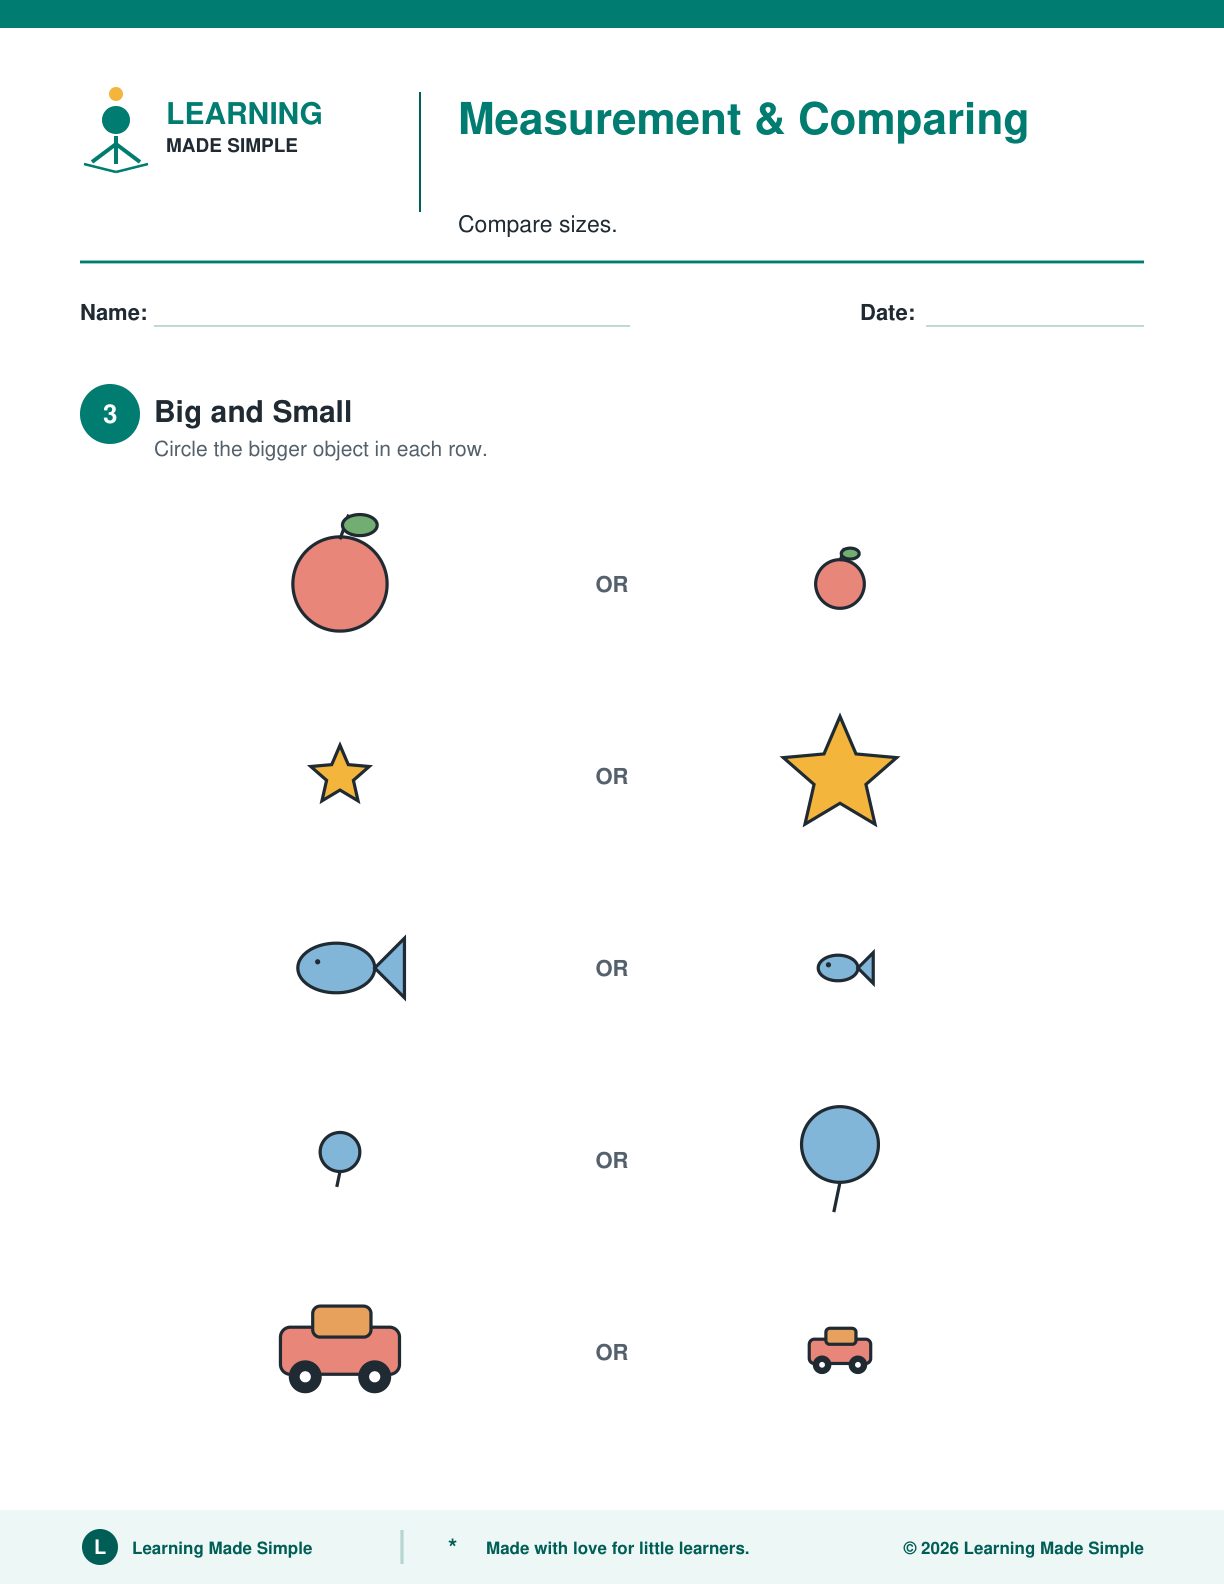
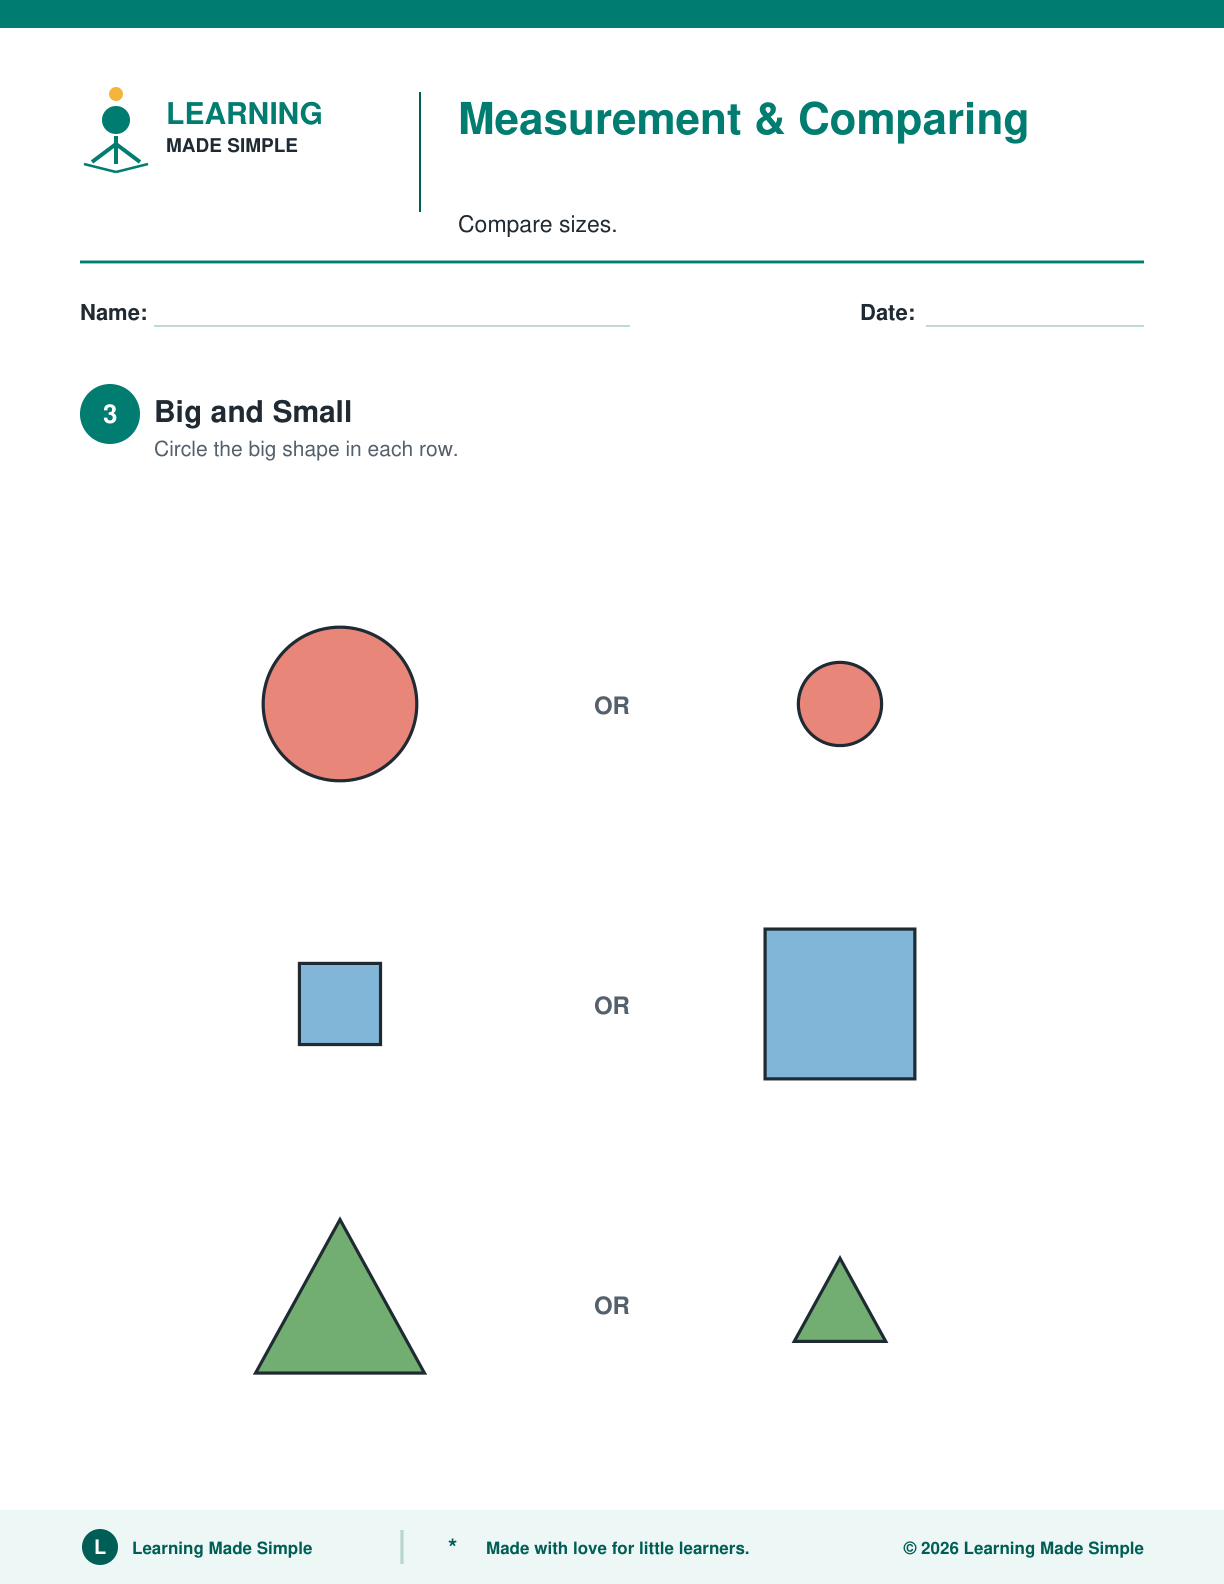
Rebuild Measurement sample: big clear objects, 3 rows per page, simple shapes

diff --git a/worksheet-generator/generate_worksheet.py b/worksheet-generator/generate_worksheet.py
@@ -2072,6 +2072,54 @@ def _require_object_kind(kind: str, context: str) -> str:
     return kind
 
 
+PATTERN_SHAPE_COLORS = {
+    "red": CORAL, "blue": BLUE, "yellow": GOLD, "green": GREEN, "purple": PURPLE,
+}
+PATTERN_SHAPES = ("circle", "square", "triangle")
+
+
+def draw_pattern_shape(pdf: canvas.Canvas, spec: dict, center_x: float,
+                       center_y: float, size: float) -> None:
+    """Draw one simple shape a preschooler can copy: circle, square, triangle."""
+    shape = spec.get("shape")
+    color = PATTERN_SHAPE_COLORS.get(spec.get("color"))
+    scale = spec.get("scale", 1.0)
+    if shape not in PATTERN_SHAPES or color is None:
+        raise ValueError(f"Bad pattern shape spec: {spec!r}.")
+    if not isinstance(scale, (int, float)) or not 0.2 <= scale <= 1.5:
+        raise ValueError(f"Bad pattern shape scale: {spec!r}.")
+    size = size * scale
+    pdf.setStrokeColor(INK)
+    pdf.setLineWidth(1.6)
+    pdf.setFillColor(color)
+    if shape == "circle":
+        pdf.circle(center_x, center_y, size * .40, fill=1, stroke=1)
+    elif shape == "square":
+        side = size * .78
+        pdf.rect(center_x - side / 2, center_y - side / 2, side, side,
+                 fill=1, stroke=1)
+    else:
+        path = pdf.beginPath()
+        path.moveTo(center_x, center_y + size * .44)
+        path.lineTo(center_x - size * .44, center_y - size * .36)
+        path.lineTo(center_x + size * .44, center_y - size * .36)
+        path.close()
+        pdf.drawPath(path, fill=1, stroke=1)
+
+
+def _validate_pattern_spec(value, context: str) -> None:
+    if isinstance(value, dict):
+        if value.get("shape") not in PATTERN_SHAPES:
+            raise ValueError(f"{context} uses unsupported shape: {value!r}.")
+        if value.get("color") not in PATTERN_SHAPE_COLORS:
+            raise ValueError(f"{context} uses unsupported color: {value!r}.")
+        scale = value.get("scale", 1.0)
+        if not isinstance(scale, (int, float)) or not 0.2 <= scale <= 1.5:
+            raise ValueError(f"{context} uses unsupported scale: {value!r}.")
+    else:
+        _require_object_kind(value, context)
+
+
 def draw_pattern_cells(pdf: canvas.Canvas, sequence: list, x: float, y: float,
                        box: float = 48.0, gap: float = 10.0) -> None:
     """Draw a row of pattern cells; None entries render as dashed blanks."""
@@ -2247,66 +2295,75 @@ def draw_cup(pdf: canvas.Canvas, center_x: float, y: float, width: float,
     pdf.drawPath(outline, fill=0, stroke=1)
 
 
+def _draw_measured_shape(pdf: canvas.Canvas, item: dict, center_x: float,
+                         center_y: float, size: float) -> None:
+    """Draw a big simple shape for the measurement pack."""
+    _validate_pattern_spec({"shape": item["shape"], "color": item["color"]},
+                           "Measurement")
+    draw_pattern_shape(pdf, {"shape": item["shape"], "color": item["color"],
+                             "scale": 1.0}, center_x, center_y, size)
+
+
 def draw_long_short(pdf: canvas.Canvas, items: list) -> None:
-    y = 484
-    for item in items:
+    """Three big ribbon pairs, centered, with plenty of space between rows."""
+    for index, item in enumerate(items[:3]):
+        top = 500 - index * 140
         first_long = item["longer"] == "first"
-        lengths = (300, 175) if first_long else (175, 300)
-        draw_ribbon(pdf, 75, y + 46, lengths[0], 30, CORAL)
-        draw_ribbon(pdf, 75, y + 4, lengths[1], 30, BLUE)
-        y -= 100
+        lengths = (340, 190) if first_long else (190, 340)
+        draw_ribbon(pdf, (PAGE_WIDTH - lengths[0]) / 2, top - 44, lengths[0], 44, CORAL)
+        draw_ribbon(pdf, (PAGE_WIDTH - lengths[1]) / 2, top - 100, lengths[1], 44, BLUE)
 
 
 def draw_tall_short(pdf: canvas.Canvas, items: list) -> None:
-    y = 458
-    for index, item in enumerate(items):
+    """Three big tower pairs; rows well clear of the prompt and the footer."""
+    for index, item in enumerate(items[:3]):
+        top = 495 - index * 150
+        tower_y = top - 140
         first_tall = item["taller"] == "first"
-        heights = (102, 62) if first_tall else (62, 102)
-        draw_tower(pdf, 150, y, 56, heights[0], (TEAL, GOLD, CORAL, PURPLE)[index % 4])
-        draw_tower(pdf, 380, y, 56, heights[1], (BLUE, CORAL, TEAL, GOLD)[index % 4])
+        heights = (130, 75) if first_tall else (75, 130)
+        colors = (TEAL, GOLD, PURPLE) if first_tall else (BLUE, CORAL, TEAL)
+        draw_tower(pdf, 150, tower_y, 70, heights[0], colors[index % 3])
+        draw_tower(pdf, 392, tower_y, 70, heights[1], colors[(index + 1) % 3])
         pdf.setFillColor(MUTED)
-        pdf.setFont("Helvetica-Bold", 11)
-        pdf.drawCentredString(PAGE_WIDTH / 2, y + 52, "OR")
-        y -= 118
+        pdf.setFont("Helvetica-Bold", 12)
+        pdf.drawCentredString(PAGE_WIDTH / 2, tower_y + 60, "OR")
 
 
 def draw_big_small(pdf: canvas.Canvas, items: list) -> None:
-    y = 500
-    for item in items:
-        _require_object_kind(item["object"], "Measurement")
+    """Three big shape pairs; simple shapes a child could draw."""
+    for index, item in enumerate(items[:3]):
+        center_y = 440 - index * 150
         first_big = item["bigger"] == "first"
-        sizes = (62, 32) if first_big else (32, 62)
-        draw_object(pdf, item["object"], 170, y, sizes[0])
-        draw_object(pdf, item["object"], 420, y, sizes[1])
+        sizes = (96, 52) if first_big else (52, 96)
+        _draw_measured_shape(pdf, item, 170, center_y, sizes[0])
+        _draw_measured_shape(pdf, item, 420, center_y, sizes[1])
         pdf.setFillColor(MUTED)
-        pdf.setFont("Helvetica-Bold", 11)
-        pdf.drawCentredString(PAGE_WIDTH / 2, y - 4, "OR")
-        y -= 96
+        pdf.setFont("Helvetica-Bold", 12)
+        pdf.drawCentredString(PAGE_WIDTH / 2, center_y - 5, "OR")
 
 
 def draw_capacity(pdf: canvas.Canvas, items: list) -> None:
-    y = 486
-    for item in items:
+    """Three big cup pairs with a clear more/less difference."""
+    for index, item in enumerate(items[:3]):
+        cup_y = 400 - index * 160
         first_full = item["fuller"] == "first"
         fills = (0.85, 0.25) if first_full else (0.25, 0.85)
-        draw_cup(pdf, 170, y, 120, 74, fills[0], BLUE)
-        draw_cup(pdf, 420, y, 120, 74, fills[1], BLUE)
+        draw_cup(pdf, 170, cup_y, 150, 100, fills[0], BLUE)
+        draw_cup(pdf, 420, cup_y, 150, 100, fills[1], BLUE)
         pdf.setFillColor(MUTED)
-        pdf.setFont("Helvetica-Bold", 11)
-        pdf.drawCentredString(PAGE_WIDTH / 2, y + 32, "OR")
-        y -= 100
+        pdf.setFont("Helvetica-Bold", 12)
+        pdf.drawCentredString(PAGE_WIDTH / 2, cup_y + 44, "OR")
 
 
 def draw_order_by_size(pdf: canvas.Canvas, items: list) -> None:
-    y = 496
-    for item in items:
-        _require_object_kind(item["object"], "Measurement")
+    """Three big order rows; short label, then three large shapes."""
+    for index, item in enumerate(items[:3]):
+        top = 505 - index * 160
         pdf.setFillColor(TEAL_DARK)
-        pdf.setFont("Helvetica-Bold", 12)
-        pdf.drawString(55, y + 42, item["label"])
+        pdf.setFont("Helvetica-Bold", 13)
+        pdf.drawString(55, top - 14, item["label"])
         for center_x, size in zip((150, 306, 462), item["sizes"]):
-            draw_object(pdf, item["object"], center_x, y, size)
-        y -= 110
+            _draw_measured_shape(pdf, item, center_x, top - 80, size)
 
 
 def validate_measurement_pack(data: dict) -> None:
@@ -2316,8 +2373,9 @@ def validate_measurement_pack(data: dict) -> None:
         raise ValueError(f"Measurement pack pages must be {expected_types}.")
     for page in pages:
         for item in page.get("activity", {}).get("items", []):
-            if "object" in item:
-                _require_object_kind(item["object"], "Measurement")
+            if "shape" in item:
+                _validate_pattern_spec({"shape": item["shape"],
+                                        "color": item["color"]}, "Measurement")
 
 
 def build_measurement_pack(pdf: canvas.Canvas, data: dict) -> None:

diff --git a/worksheet-generator/tests/test_multi_page_preview.py b/worksheet-generator/tests/test_multi_page_preview.py
@@ -22,9 +22,9 @@ class MultiPageMetadataTests(unittest.TestCase):
 
     def test_all_canonical_resources_have_complete_unique_page_metadata(self):
         resources = self._resources()
-        self.assertEqual(len(resources), 18)
+        self.assertEqual(len(resources), 21)
         resource_ids = {resource["id"] for resource in resources}
-        self.assertEqual(len(resource_ids), 18)
+        self.assertEqual(len(resource_ids), 21)
         self.assertIn("3d-shapes", resource_ids)
         self.assertIn("positional-words", resource_ids)
         preview_paths = set()
@@ -48,13 +48,13 @@ class MultiPageMetadataTests(unittest.TestCase):
                 f'{resource["preview_directory"]}/page-01.png',
             )
 
-        self.assertEqual(len(preview_paths), 87)
-        self.assertEqual(len(pdf_paths), 87)
+        self.assertEqual(len(preview_paths), 102)
+        self.assertEqual(len(pdf_paths), 102)
 
     def test_directory_runtime_validation_covers_page_invariants(self):
         source = DIRECTORY_SOURCE.read_text(encoding="utf-8")
         for expected in (
-            "resources.length!==18",
+            "resources.length!==21",
             "resource.pages.length!==resource.pageCount",
             "page.number!==expectedNumber",
             "pagePreviewPaths.has(page.previewPath)",
